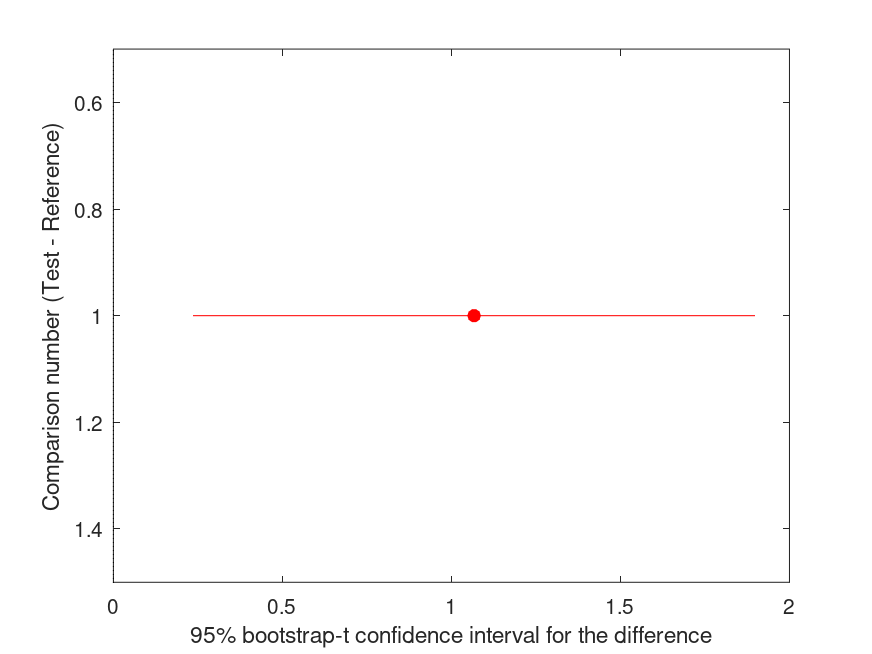
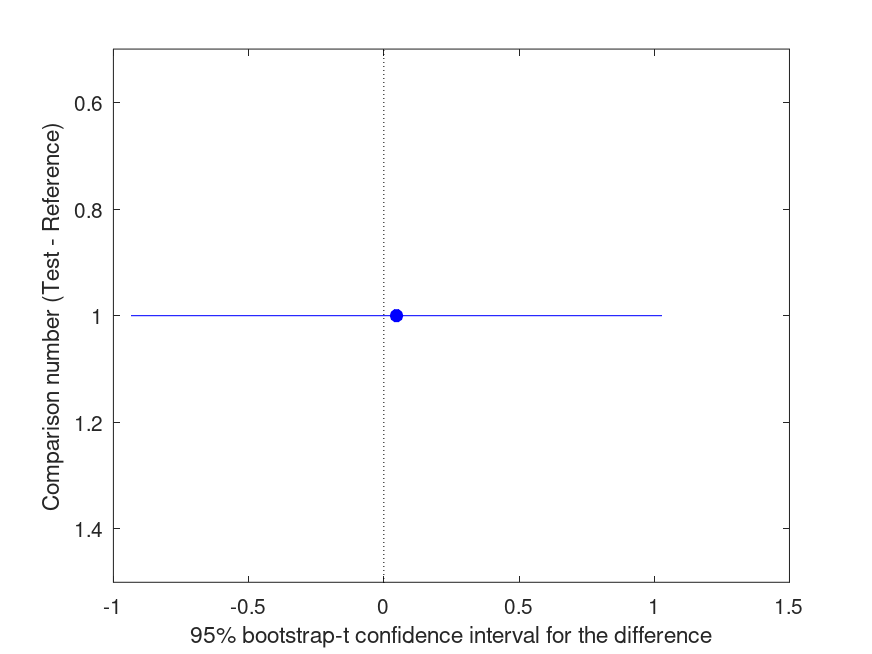
update online manual

diff --git a/docs/function/boot.html b/docs/function/boot.html
@@ -116,23 +116,17 @@
 <p>Produces the following output</p>
 <pre class="example">ans =
 
- Columns 1 through 8:
+ Columns 1 through 14:
 
-            2            3            3            2            2            2            1            1
-            3            1            3            1            2            3            2            2
-            2            1            3            3            2            1            2            3
+            2            3            3            2            2            2            1            1            3            1            3            3            2            1
+            3            1            3            1            2            3            2            2            2            1            2            1            2            2
+            2            1            3            3            2            1            2            3            1            2            1            2            3            1
 
- Columns 9 through 16:
+ Columns 15 through 20:
 
-            3            1            3            3            2            1            2            2
-            2            1            2            1            2            2            3            3
-            1            2            1            2            3            1            1            1
-
- Columns 17 through 20:
-
-            3            3            1            1
-            1            1            3            3
-            2            3            3            1</pre>
+            2            2            3            3            1            1
+            3            3            1            1            3            3
+            1            1            2            3            3            1</pre>
 </div>
 
 <h3><a name="2">Demonstration 2</a></h3>
@@ -145,23 +139,17 @@
 <p>Produces the following output</p>
 <pre class="example">ans =
 
- Columns 1 through 8:
+ Columns 1 through 14:
 
-            2            3            2            2            3            1            3            1
-            2            1            1            2            3            2            2            1
-            3            3            1            2            3            1            3            1
+            2            3            2            2            3            1            3            1            2            2            1            2            2            3
+            2            1            1            2            3            2            2            1            1            3            3            1            3            3
+            3            3            1            2            3            1            3            1            2            2            3            2            3            1
 
- Columns 9 through 16:
+ Columns 15 through 20:
 
-            2            2            1            2            2            3            1            2
-            1            3            3            1            3            3            1            2
-            2            2            3            2            3            1            1            3
-
- Columns 17 through 20:
-
-            1            2            3            3
-            1            1            1            2
-            3            1            3            2</pre>
+            1            2            1            2            3            3
+            1            2            1            1            1            2
+            1            3            3            1            3            2</pre>
 </div>
 
 <h3><a name="3">Demonstration 3</a></h3>
@@ -176,63 +164,45 @@
 <p>Produces the following output</p>
 <pre class="example">ans =
 
- Columns 1 through 8:
+ Columns 1 through 14:
 
-            3            3            3            3            1            2            3            3
-            3            1            2            2            3            1            3            1
-            3            2            3            1            3            1            1            1
+            3            3            3            3            1            2            3            3            1            1            2            2            1            2
+            3            1            2            2            3            1            3            1            2            2            3            3            2            3
+            3            2            3            1            3            1            1            1            3            1            2            3            2            1
 
- Columns 9 through 16:
+ Columns 15 through 20:
 
-            1            1            2            2            1            2            2            2
-            2            2            3            3            2            3            3            3
-            3            1            2            3            2            1            2            2
-
- Columns 17 through 20:
-
-            1            2            1            1
-            3            1            1            2
-            2            1            2            1
+            2            2            1            2            1            1
+            3            3            3            1            1            2
+            2            2            2            1            2            1
 
 ans =
 
- Columns 1 through 8:
+ Columns 1 through 14:
 
-            3            3            3            3            1            2            3            3
-            3            1            2            2            3            1            3            1
-            3            2            3            1            3            1            1            1
+            3            3            3            3            1            2            3            3            1            1            2            2            1            2
+            3            1            2            2            3            1            3            1            2            2            3            3            2            3
+            3            2            3            1            3            1            1            1            3            1            2            3            2            1
 
- Columns 9 through 16:
+ Columns 15 through 20:
 
-            1            1            2            2            1            2            2            2
-            2            2            3            3            2            3            3            3
-            3            1            2            3            2            1            2            2
-
- Columns 17 through 20:
-
-            1            2            1            1
-            3            1            1            2
-            2            1            2            1
+            2            2            1            2            1            1
+            3            3            3            1            1            2
+            2            2            2            1            2            1
 
 ans =
 
- Columns 1 through 8:
+ Columns 1 through 14:
 
-            3            2            2            3            2            3            1            2
-            1            3            1            1            2            3            3            3
-            1            3            3            1            1            1            2            3
+            3            2            2            3            2            3            1            2            2            3            1            2            3            1
+            1            3            1            1            2            3            3            3            1            2            1            1            2            1
+            1            3            3            1            1            1            2            3            2            2            2            1            2            3
 
- Columns 9 through 16:
+ Columns 15 through 20:
 
-            2            3            1            2            3            1            2            3
-            1            2            1            1            2            1            3            1
-            2            2            2            1            2            3            3            1
-
- Columns 17 through 20:
-
-            2            3            2            3
-            1            3            3            2
-            1            2            2            1</pre>
+            2            3            2            3            2            3
+            3            1            1            3            3            2
+            3            1            1            2            2            1</pre>
 </div>
 
 <h3><a name="4">Demonstration 4</a></h3>
@@ -247,31 +217,15 @@ ans =
 <p>Produces the following output</p>
 <pre class="example">ans =
 
- Columns 1 through 8:
-
-           44           23           23           36           44           23           44           36
-           36           23           36           23           44           36           36           23
-           36           36           23           44           23           44           23           36
-
- Columns 9 and 10:
-
-           36           23
-           44           44
-           44           44
+           44           23           23           36           44           23           44           36           36           23
+           36           23           36           23           44           36           36           23           44           44
+           36           36           23           44           23           44           23           36           44           44
 
 ans =
 
- Columns 1 through 8:
-
-           23           23           23           36           23           23           23           36
-           36           23           36           23           23           36           36           23
-           36           36           23           23           23           23           23           36
-
- Columns 9 and 10:
-
-           36           23
-           23           23
-           23           23</pre>
+           23           23           23           36           23           23           23           36           36           23
+           36           23           36           23           23           36           36           23           23           23
+           36           36           23           23           23           23           23           36           23           23</pre>
 </div>
 
 <h3><a name="5">Demonstration 5</a></h3>

diff --git a/docs/function/boot1way.html b/docs/function/boot1way.html
@@ -529,7 +529,7 @@ Bootstrap settings:
 -----------------------------------------------------------------------------
 | Comparison |     Test # |      Ref # | Difference |          t |        p |
 |------------|------------|------------|------------|------------|----------|
-|          1 |          2 |          1 |     +1.067 |      +3.09 |     .021 |*
+|          1 |          2 |          1 |   +0.04695 |      +0.10 |     .919 |
 
 -----------------------------------------------------------------------------
 |    GROUP # |                                       GROUP label |        N |
@@ -574,7 +574,7 @@ Bootstrap settings:
 -----------------------------------------------------------------------------
 | Comparison |     Test # |      Ref # | Difference |          t |        p |
 |------------|------------|------------|------------|------------|----------|
-|          1 |          2 |          1 |    +0.1715 |      +0.21 |     .748 |
+|          1 |          2 |          1 |    -0.7087 |      -1.12 |     .240 |
 
 -----------------------------------------------------------------------------
 |    GROUP # |                                       GROUP label |        N |

diff --git a/docs/function/sampszcalc.html b/docs/function/sampszcalc.html
@@ -32,7 +32,8 @@
       'N = sampszcalc (TESTTYPE, EFFSZ)' returns the required sample size to
       reach the significance level (alpha) of 0.05 in a two-tailed version of
       the test specified in TESTTYPE for the specified effect size, EFFSZ,
-      with a power of 0.8 (i.e. a type II error rate of 1 - 0.8 = 0.2)
+      with a power of 0.8 (i.e. a type II error rate of 1 - 0.8 = 0.2). For
+      two-sample tests, N corresponds to the size of each sample.
 
         TESTTYPE can be:
 
@@ -106,7 +107,6 @@
  % The difference between a sample mean from a zero constant (one sample test)
  % or the difference between two dependent means (matched pair). Sample size
  % determined for Cohen's d = 0.8.
- % d effect size
 
  n = sampszcalc ('t', 0.8)</pre>
 <p>Produces the following output</p>
@@ -119,7 +119,7 @@
 <pre class="example">
 
  % The difference between two independent means (two groups). Sample size
- % determined for Cohen's d = 0.8.
+ % for each group determined for Cohen's d = 0.8.
 
  n = sampszcalc ('t2', 0.8)</pre>
 <p>Produces the following output</p>

diff --git a/docs/function/bootclust.html b/docs/function/bootclust.html
@@ -376,8 +376,8 @@ Bootstrap settings:
 
 Bootstrap Statistics: 
  original     bias         std_error    CI_lower     CI_upper  
- -0.1112      -0.001534    +0.1982      -0.4177      +0.2349    
- +0.3024      +0.007410    +0.1338      +0.1152      +0.5520</pre>
+ +0.02623     -0.03513     +0.2472      -0.3704      +0.4230    
+ +0.5423      +0.04750     +0.3254      +0.09565     +1.128</pre>
 </div>
 
 <h3><a name="8">Demonstration 8</a></h3>
@@ -406,8 +406,8 @@ Bootstrap settings:
 
 Bootstrap Statistics: 
  original     bias         std_error    CI_lower     CI_upper  
- -0.2780      -0.02493     +0.1903      -0.5665      +0.06149   
- -0.09247     +0.003227    +0.1476      -0.3360      +0.1274</pre>
+ +0.2205      +0.02087     +0.1567      -0.04442     +0.4559    
+ +0.1180      +0.02930     +0.1133      -0.02958     +0.2998</pre>
 </div>
 
 <h3><a name="9">Demonstration 9</a></h3>

diff --git a/docs/function/bootwild.html b/docs/function/bootwild.html
@@ -180,7 +180,7 @@ Bootstrap settings:
 
 Test Statistics: 
  original     std_err      CI_lower     CI_upper     t-stat      p-val     FPR
- +184.5       +1.243       +181.6       +187.4       +148.       <.001    .010</pre>
+ +184.5       +1.243       +181.5       +187.5       +148.       <.001    .010</pre>
 </div>
 
 <h3><a name="2">Demonstration 2</a></h3>
@@ -219,7 +219,7 @@ Bootstrap settings:
 Test Statistics: 
  original     std_err      CI_lower     CI_upper     t-stat      p-val     FPR
  +175.5       +2.502       +169.8       +181.2       +70.1       <.001    .010
- +0.1904      +0.08261     +0.003534    +0.3773      +2.31        .047    .280</pre>
+ +0.1904      +0.08261     +0.003542    +0.3773      +2.31        .046    .278</pre>
 </div>
 
 <p>Package: <a href="../index.html">statistics-resampling</a></p>

diff --git a/docs/function/bootknife.html b/docs/function/bootknife.html
@@ -442,8 +442,8 @@ Bootstrap settings:
 
 Bootstrap Statistics: 
  original     bias         std_error    CI_lower     CI_upper  
- +0.1990      -0.008914    +0.1828      -0.09050     +0.5090    
- -0.1568      +0.01470     +0.1841      -0.4362      +0.1537</pre>
+ -0.06118     -0.01845     +0.2432      -0.4004      +0.4038    
+ -0.3868      -0.002295    +0.2637      -0.8926      -0.02620</pre>
 </div>
 
 <h3><a name="9">Demonstration 9</a></h3>

diff --git a/docs/function/randtest.html b/docs/function/randtest.html
@@ -146,8 +146,8 @@ stat = 1.2334</pre>
 <p>Produces the following output</p>
 <pre class="example">pval =
 
-      0.53148
-   0.00049014
+      0.53279
+   0.00065129
 
 stat =
 
@@ -173,7 +173,7 @@ stat =
  % of standardized x and y values.
  [pval, stat] = randtest (X, Y, 5000, @cor)</pre>
 <p>Produces the following output</p>
-<pre class="example">pval = 0.0002
+<pre class="example">pval = 0.0007043
 stat = 0.72317</pre>
 </div>
 

diff --git a/docs/function/bootmode.html b/docs/function/bootmode.html
@@ -151,7 +151,7 @@
 
 ans = H1 is 1 with p = 0.0005 so reject the null hypothesisthat there is 1 mode
 
-ans = H2 is 0 with p = 0.334 so accept the null hypothesis that there are 2 modes</pre>
+ans = H2 is 0 with p = 0.325 so accept the null hypothesis that there are 2 modes</pre>
 </div>
 
 <p>Package: <a href="../index.html">statistics-resampling</a></p>

diff --git a/docs/function/randtest2.html b/docs/function/randtest2.html
@@ -162,9 +162,9 @@
                            @(A, B) log (var (A) ./ var (B)))
 </pre>
 <p>Produces the following output</p>
-<pre class="example">pval = 0.3668
-pval = 0.2698
-pval = 0.30905</pre>
+<pre class="example">pval = 0.3528
+pval = 0.2752
+pval = 0.3102</pre>
 </div>
 
 <h3><a name="2">Demonstration 2</a></h3>

diff --git a/docs/function/bootci.html b/docs/function/bootci.html
@@ -468,8 +468,8 @@
 <p>Produces the following output</p>
 <pre class="example">ci =
 
-     -0.45447     -0.66135
-      0.34586      0.24706</pre>
+     -0.39581     -0.51366
+      0.41911     0.067221</pre>
 </div>
 
 <h3><a name="11">Demonstration 11</a></h3>
